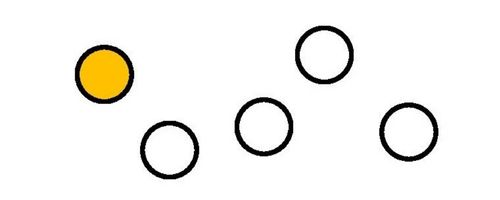
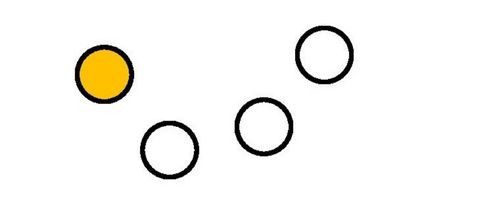
changed q15 image and correct answer

Changed region(s): [[0.75, 0.51, 0.9, 0.81]]

diff --git a/numeracy/v3/level_1_sec_3.html b/numeracy/v3/level_1_sec_3.html
@@ -310,11 +310,11 @@
                             <div><img src="/images/level_1_sec_3_v3/l1_s3_q15_c200.jpg" class="img-responsive" /></div>
                         </h3>
                         <p>
-                            <input type="radio" id="q15_a" name="q15" ng-model="testResponse.q15" value="0">
+                            <input type="radio" id="q15_a" name="q15" ng-model="testResponse.q15" value="1">
                             <label for="q15_a">1 quarter</label>
                         </p>
                         <p>
-                            <input type="radio" id="q15_b" name="q15" ng-model="testResponse.q15" value="1">
+                            <input type="radio" id="q15_b" name="q15" ng-model="testResponse.q15" value="0">
                             <label for="q15_b">1 fifth</label>
                         </p>
                         <p>
